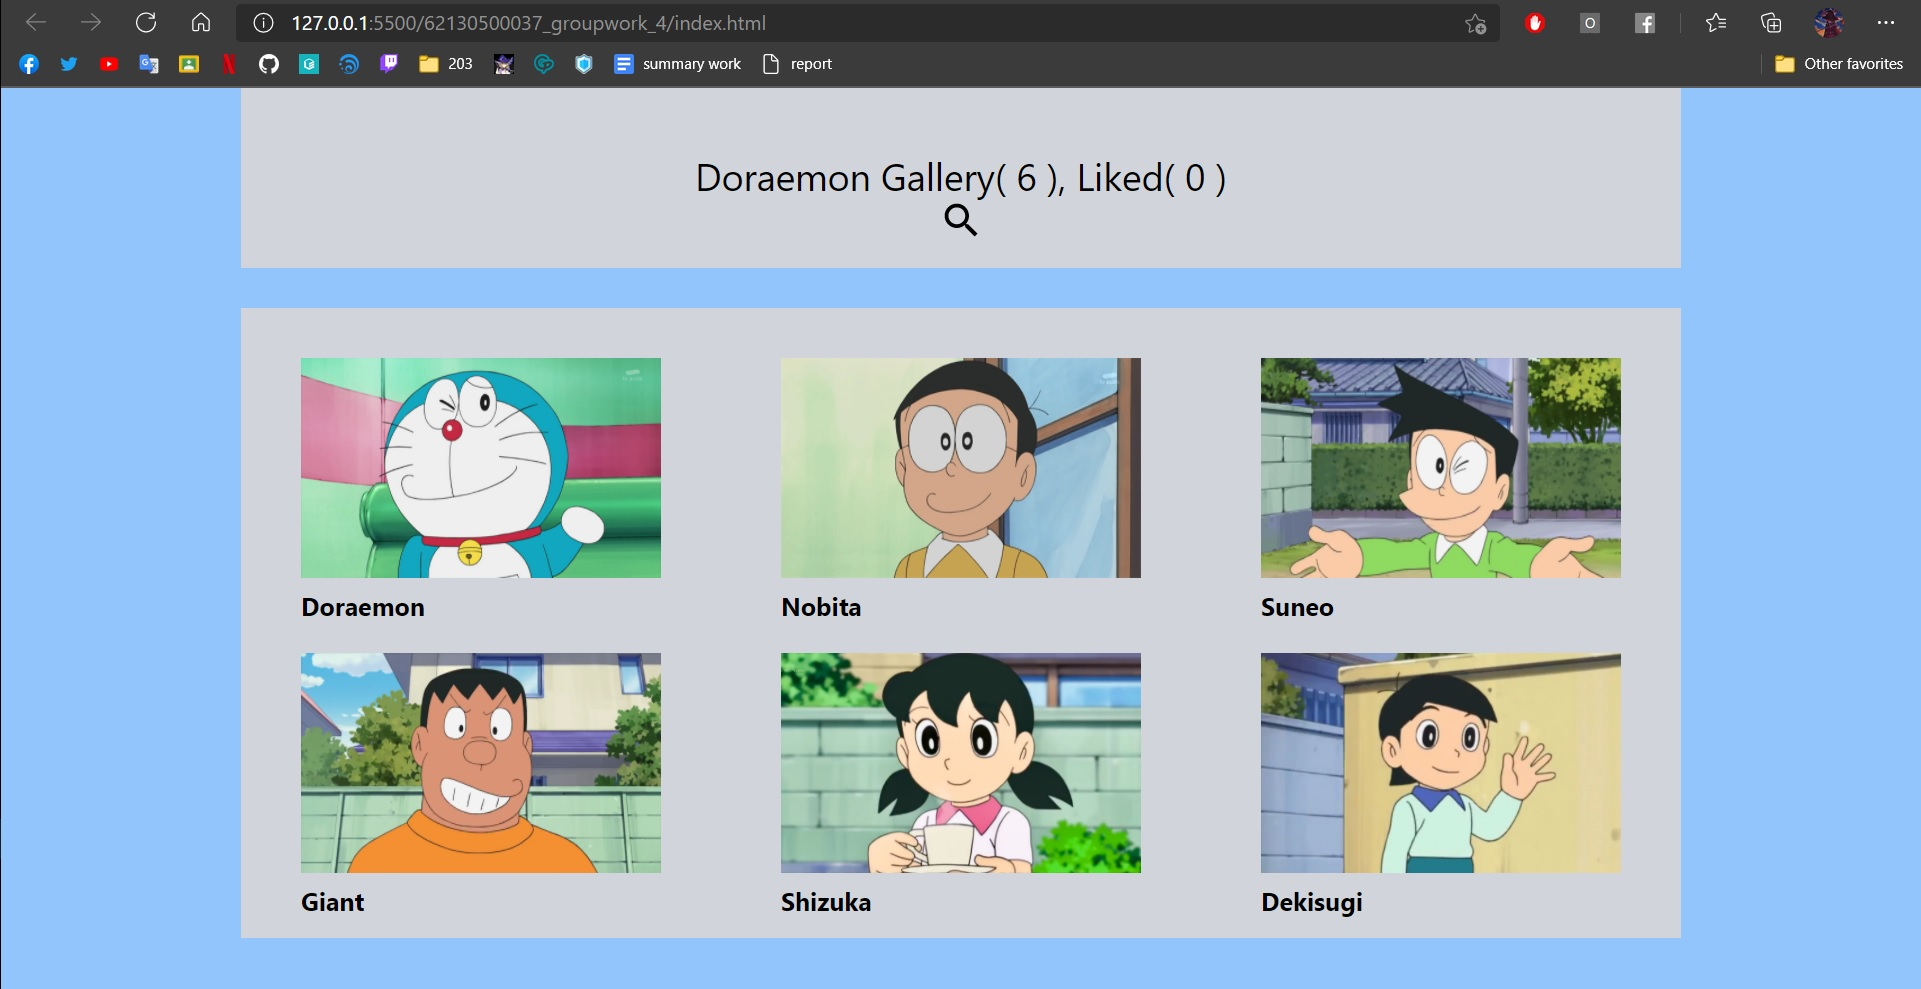
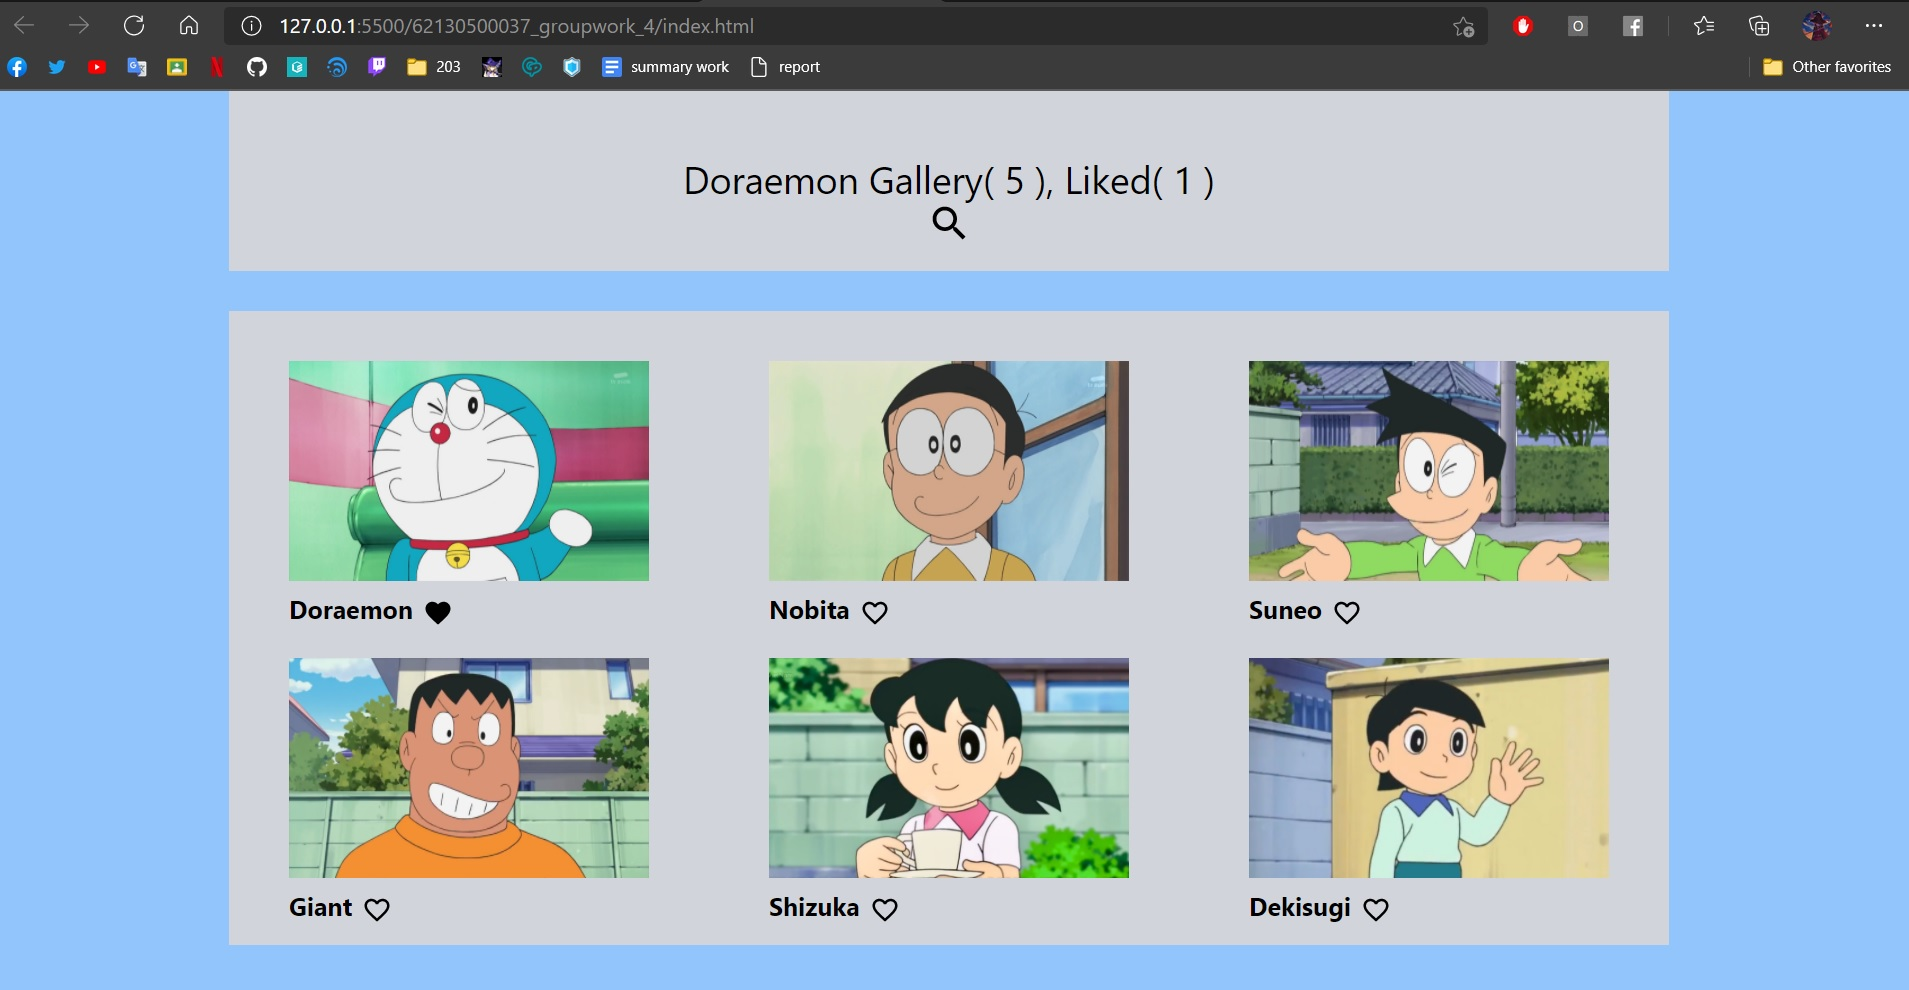
[decoration] Like button

diff --git a/62130500037_groupwork_4/index.html b/62130500037_groupwork_4/index.html
@@ -28,6 +28,7 @@
  
     <div class  ="bg-gray-300 p-5 text-center " >
     <h1 class="text-3xl mt-8 "> Doraemon Gallery( {{ countUnLike }} ), Liked( {{ countLike }} )</h1> 
+    
   <span v-if = "schbutton.dnshow == true">
     <button> <img :src = "schbutton.searchicon" @click="searchbutton" class = "inline w-9 " ></button>
   </span>
@@ -36,11 +37,12 @@
   class="px-36 py-2 bg-white rounded border-2 border-gray-500 mt-6">
 
   <button @click = "cancel" class="ml-2 bg-red-500 text-white  py-1 px-2 rounded">Cancel</button>
-
+ 
  </span>
 
 
   </div>
+  
     
     <ul class ="mt-8 pt-8  bg-gray-300 grid grid-cols-3 justify-items-center" > 
       
@@ -56,10 +58,13 @@
     </button>
     
 
-      <h1 class="mt-2 mb-4 text-xl "><b>{{image.name}}</b><span v-show="image.fav">
-      <img class = "inline ml-2 " :src = "favicon"></span></h1>
+     <h1 class="mt-2 mb-4 text-xl "><b>{{image.name}}</b>
+      <button @click="favorite(index)" >  <img v-show="!image.fav" class = "inline ml-2 " :src = "favborder"></button>
+      <span v-show="image.fav">
+        <button @click="favorite(index)" > <img   class = "inline ml-2" :src = "favicon"></button>
+      </span>
+    </h1>
       
-  
     
     </li> 
   <h1 v-if="nopic == true" class="mb-20 text-5xl">No Photo</h1>

diff --git a/62130500037_groupwork_4/main.js b/62130500037_groupwork_4/main.js
@@ -10,7 +10,8 @@ const app = {
                 {images: 'images/dekisugi.jpg', name : 'Dekisugi',fav: false,dnshow:false,choosed:false},
                 ],
            schbutton:{searchicon : 'images/search-black-18dp.svg',dnshow:true},
-           favicon: 'images/favorite.svg'
+           favicon: 'images/favorite.svg',
+           favborder: 'images/favorite_border.svg'
            ,findpic:''
            ,count:[]
            ,nopic:false
